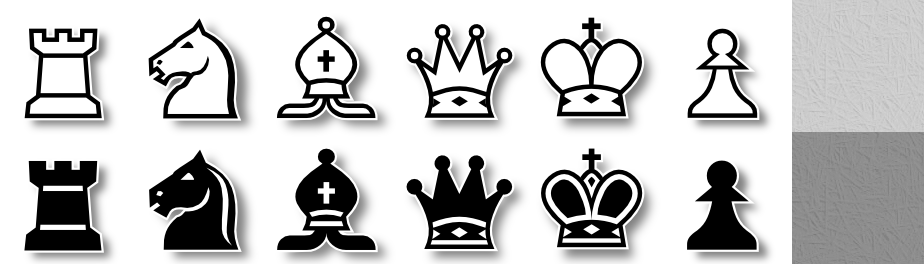
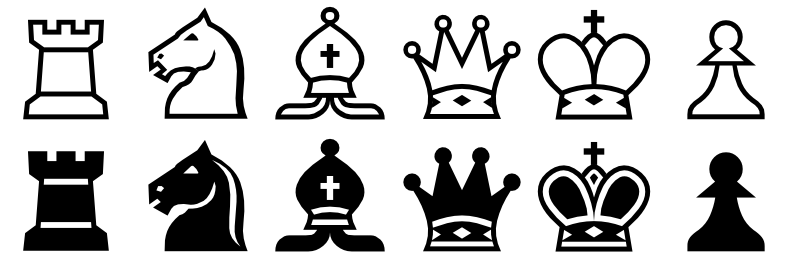
Separate piece and board graphics, optional outline and shadow.

diff --git a/src/gui/boardtheme.cpp b/src/gui/boardtheme.cpp
@@ -63,58 +63,76 @@ bool BoardTheme::isValid() const
 	return !m_pieceFilename.isNull();
 }
 
-bool BoardTheme::load(const QString& themeFile, LoadTheme load)
+bool BoardTheme::loadPieces(const QString& pieces, const QString& effect)
 {
-	QString themePath = QString("%1/%2.png").arg(themeDirectory()).arg(themeFile);
+	QString etest = effect.toLower();
+	QString effectPath = "/";
+	if (etest != "plain")
+		effectPath += etest + "/";
+	QString themePath = QString("%1%2%3.png").arg(themeDirectory()).arg(effectPath).arg(pieces);
+
 	QPixmap big;
 	if (!big.load(themePath) || big.width() < 160)
 		return false;
+
 	int realsize = big.height() / 2;
-	if (realsize != big.width() / 7)
+	if (realsize != big.width() / 6)
 		return false;
 
 	/* Cut big theme bitmap into separate pieces */
-	if (load & LoadPieces) {
-		m_originalPiece[WhiteRook] = big.copy(0 * realsize, 0, realsize, realsize);
-		m_originalPiece[WhiteKnight] = big.copy(1 * realsize, 0, realsize, realsize);
-		m_originalPiece[WhiteBishop] = big.copy(2 * realsize, 0, realsize, realsize);
-		m_originalPiece[WhiteQueen] = big.copy(3 * realsize, 0, realsize, realsize);
-		m_originalPiece[WhiteKing] = big.copy(4 * realsize, 0, realsize, realsize);
-		m_originalPiece[WhitePawn] = big.copy(5 * realsize, 0, realsize, realsize);
-		m_originalPiece[BlackRook] = big.copy(0 * realsize, realsize, realsize, realsize);
-		m_originalPiece[BlackKnight] = big.copy(1 * realsize, realsize, realsize, realsize);
-		m_originalPiece[BlackBishop] = big.copy(2 * realsize, realsize, realsize, realsize);
-		m_originalPiece[BlackQueen] = big.copy(3 * realsize, realsize, realsize, realsize);
-		m_originalPiece[BlackKing] = big.copy(4 * realsize, realsize, realsize, realsize);
-		m_originalPiece[BlackPawn] = big.copy(5 * realsize, realsize, realsize, realsize);
-		m_pieceFilename = themePath;
-	}
+	m_originalPiece[WhiteRook] = big.copy(0 * realsize, 0, realsize, realsize);
+	m_originalPiece[WhiteKnight] = big.copy(1 * realsize, 0, realsize, realsize);
+	m_originalPiece[WhiteBishop] = big.copy(2 * realsize, 0, realsize, realsize);
+	m_originalPiece[WhiteQueen] = big.copy(3 * realsize, 0, realsize, realsize);
+	m_originalPiece[WhiteKing] = big.copy(4 * realsize, 0, realsize, realsize);
+	m_originalPiece[WhitePawn] = big.copy(5 * realsize, 0, realsize, realsize);
+	m_originalPiece[BlackRook] = big.copy(0 * realsize, realsize, realsize, realsize);
+	m_originalPiece[BlackKnight] = big.copy(1 * realsize, realsize, realsize, realsize);
+	m_originalPiece[BlackBishop] = big.copy(2 * realsize, realsize, realsize, realsize);
+	m_originalPiece[BlackQueen] = big.copy(3 * realsize, realsize, realsize, realsize);
+	m_originalPiece[BlackKing] = big.copy(4 * realsize, realsize, realsize, realsize);
+	m_originalPiece[BlackPawn] = big.copy(5 * realsize, realsize, realsize, realsize);
+	m_pieceFilename = themePath;
 
-	/* Background */
-	if (load & LoadBoard) {
-		m_originalSquare[0] = big.copy(6 * realsize, 0, realsize, realsize);
-		m_originalSquare[1] = big.copy(6 * realsize, realsize, realsize, realsize);
-		m_boardFilename = themePath;
-	}
-	// Restore previous size
 	if (size().isEmpty())
 		setSize(QSize(realsize, realsize));
-	else
-		setSize(size());
+	else	setSize(size());
+	return true;
+}
+
+bool BoardTheme::loadBoard(const QString& board)
+{
+	if (board.isEmpty()) {
+		m_boardFilename = board;
+		updateSquares();
+		return true;
+	}
+	QString themePath = QString("%1/boards/%2.png").arg(themeDirectory()).arg(board);
+	QPixmap big;
+	if (!big.load(themePath))
+		return false;
+	int realsize = big.height() / 2;
+	if (realsize != big.width())
+		return false;
+
+	m_originalSquare[0] = big.copy(0, 0, realsize, realsize);
+	m_originalSquare[1] = big.copy(0, realsize, realsize, realsize);
+	m_boardFilename = themePath;
+
 	updateSquares();
 	return true;
 }
 
-bool BoardTheme::load(const QString& pieceFile, const QString& boardFile)
+void BoardTheme::configure()
 {
-	if (pieceFile == boardFile)
-		return load(pieceFile, LoadAll);
-	else if (!boardFile.isEmpty())
-		return load(pieceFile, LoadPieces) && load(boardFile, LoadBoard);
-	else {
-		m_boardFilename = QString();
-		return load(pieceFile, LoadPieces);
-	}
+	QString pieceTheme = AppSettings->value("pieceTheme", "default").toString();
+	QString pieceEffect = AppSettings->value("pieceEffect", "Plain").toString();
+	QString boardTheme = AppSettings->value("boardTheme", "default").toString();
+
+	if (!loadPieces(pieceTheme, pieceEffect))
+		if (!loadPieces(pieceTheme, "plain"))
+			loadPieces("merida", "outline");
+	loadBoard(boardTheme);
 }
 
 QSize BoardTheme::size() const

diff --git a/src/gui/preferences.cpp b/src/gui/preferences.cpp
@@ -180,18 +180,32 @@ void PreferencesDialog::restoreSettings()
 	ui.boardFrameCheck->setChecked(AppSettings->value("showFrame", true).toBool());
 	ui.guessMoveCheck->setChecked(AppSettings->value("guessMove", true).toBool());
 	QString pieceTheme = AppSettings->value("pieceTheme", "default").toString();
+	QString pieceEffect = AppSettings->value("pieceEffect", "Plain").toString();
 	QString boardTheme = AppSettings->value("boardTheme", "default").toString();
 	AppSettings->endGroup();
 
-	QStringList themes = QDir(AppSettings->dataPath() + "/themes").entryList(QStringList("*.png"));
+	QString themeDir(AppSettings->dataPath() + "/themes");
+	QStringList themes = QDir(themeDir).entryList(QStringList("*.png"));
 	for (QStringList::Iterator it = themes.begin(); it != themes.end(); ++it) {
 		(*it).truncate((*it).length() - 4);
 		ui.pieceThemeCombo->addItem(*it);
-		ui.boardThemeCombo->addItem(*it);
+	}
+
+	themes = QDir(themeDir+"/boards").entryList(QStringList("*.png"));
+	QStringListIterator it(themes);
+	while (it.hasNext()) {
+		QString trim(it.next());
+		ui.boardThemeCombo->addItem(trim.left(trim.length() - 4));
 	}
 	ui.boardThemeCombo->addItem(tr("[plain colors]"));
+
+	ui.pieceEffect->addItem(tr("Plain"));
+	ui.pieceEffect->addItem(tr("Outline"));
+	ui.pieceEffect->addItem(tr("Shadow"));
+
 	selectInCombo(ui.pieceThemeCombo, pieceTheme);
 	selectInCombo(ui.boardThemeCombo, boardTheme);
+	selectInCombo(ui.pieceEffect, pieceEffect);
 
 	// Read Players settings
 	AppSettings->beginGroup("/Players/");
@@ -233,10 +247,10 @@ void PreferencesDialog::saveSettings()
 	AppSettings->setValue("showFrame", ui.boardFrameCheck->isChecked());
 	AppSettings->setValue("guessMove", ui.guessMoveCheck->isChecked());
 	AppSettings->setValue("pieceTheme", ui.pieceThemeCombo->currentText());
+	AppSettings->setValue("pieceEffect", ui.pieceEffect->currentText());
 	if (ui.boardThemeCombo->currentIndex() != ui.boardThemeCombo->count() - 1)
 		AppSettings->setValue("boardTheme", ui.boardThemeCombo->currentText());
-	else
-		AppSettings->setValue("boardTheme", QString());
+	else	AppSettings->setValue("boardTheme", QString());
 	QStringList colorNames;
 	colorNames << "lightColor" << "darkColor" << "highlightColor" << "frameColor";
 	saveColorList(ui.boardColorsList, colorNames);

diff --git a/src/gui/boardview.cpp b/src/gui/boardview.cpp
@@ -276,24 +276,6 @@ void BoardView::wheelEvent(QWheelEvent* e)
 	emit wheelScrolled(change + e->modifiers());
 }
 
-bool BoardView::setTheme(const QString& pieceFile, const QString& boardFile)
-{
-	bool result = m_theme.load(pieceFile, boardFile);
-	if (!result) {
-		QMessageBox::warning(0, tr("Error"), tr("<qt>Cannot open theme <b>%1</b> from directory:<br>%2</qt>")
-				     .arg(pieceFile).arg(m_theme.themeDirectory()));
-		// If there is no theme, try to load default
-		if (!m_theme.isValid()) {
-			result = m_theme.load("merida");
-			if (result)
-				resizeBoard();
-		}
-	}
-	if (result)
-		update();
-	return result;
-}
-
 void BoardView::setFlipped(bool flipped)
 {
 	m_flipped = flipped;
@@ -317,7 +299,7 @@ void BoardView::configure()
 	m_theme.setColor(BoardTheme::Frame, AppSettings->value("frameColor", "#000000").value<QColor>());
 	QString pieceTheme = AppSettings->value("pieceTheme", "merida").toString();
 	QString boardTheme = AppSettings->value("boardTheme", "merida").toString();
-	setTheme(pieceTheme, boardTheme);
+	m_theme.configure();
 	AppSettings->endGroup();
 	removeGuess();
 	unselectSquare();

diff --git a/src/gui/boardtheme.h b/src/gui/boardtheme.h
@@ -38,10 +38,12 @@ public:
 	enum LoadTheme {LoadBoard = 1, LoadPieces = 2, LoadAll = LoadBoard | LoadPieces};
 	BoardTheme();
 	~BoardTheme();
-	/** Loads theme description from Eboard-compatible PNG file. */
-	bool load(const QString& themeFile, LoadTheme = LoadAll);
-	/** Loads theme description from Eboard-compatible PNG file. */
-	bool load(const QString& pieceFile, const QString& boardFile);
+	/** Reset piece and board selections based on config values */
+	void configure();
+	/** Load piece graphics named by string + effect name */
+	bool loadPieces(const QString& pieces, const QString& effect);
+	/** Load board graphics named by string */
+	bool loadBoard(const QString& board);
 	/** Sets one of the board colors. */
 	void setColor(ColorRole role, const QColor& value);
 	/** @return one of the board colors. */

diff --git a/src/gui/boardview.h b/src/gui/boardview.h
@@ -49,9 +49,6 @@ public:
 	Board board() const;
 	/** @return current theme */
 	const BoardTheme& theme() const;
-	/** Reads new theme from file. If two files are given, pieces are read from the first one,
-	board from the second. */
-	bool setTheme(const QString& themeFile, const QString& boardFile);
 	/** Flips/unflips board. */
 	void setFlipped(bool flipped);
 	/** @return @p true if board is displayed upside down. */
